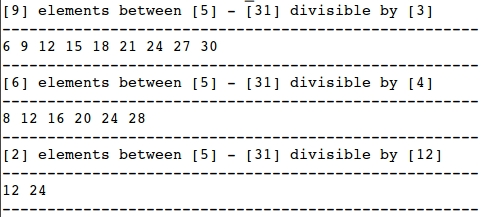
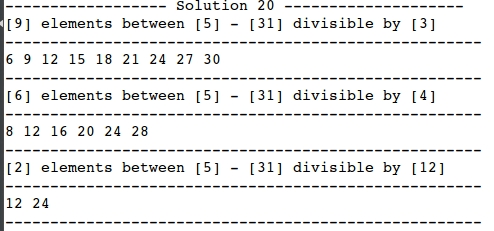
adding solution 21

Changed region(s): [[0.0, 0.0, 0.9856, 1.0]]

diff --git a/Chapter_6_Counting/6.1_The_Basics_of_Counting/Exercises/repo/range.cpp b/Chapter_6_Counting/6.1_The_Basics_of_Counting/Exercises/repo/range.cpp
@@ -37,6 +37,7 @@ int lcm(int a, int b) {
 }
 
 void solution_20() {
+    printf("------------------ Solution 20 --------------------\n");
     // Test case for problem a)
     int s = 5;
     int e = 31;
@@ -59,8 +60,33 @@ void solution_20() {
     print(s, e, g);
 }
 
+void solution_21() {
+    printf("------------------ Solution 21 --------------------\n");
+    // Test case for problem a)
+    int s = 50;
+    int e = 100;
+    int g = 7;
+    printf("[%d] elements between [%d] - [%d] divisible by [%d]\n", range(s, e, g), s, e, g);
+    print(s, e, g);
+
+    // Test case for problem b)
+    s = 50;
+    e = 100;
+    g = 11;
+    printf("[%d] elements between [%d] - [%d] divisible by [%d]\n", range(s, e, g), s, e, g);
+    print(s, e, g);
+
+    // Test case for problem c)
+    s = 50;
+    e = 100;
+    g = lcm(11, 7);
+    printf("[%d] elements between [%d] - [%d] divisible by [%d]\n", range(s, e, g), s, e, g);
+    print(s, e, g);
+}
+
 int main() {
     solution_20();
+    solution_21();
 
     return 0;
 }

diff --git a/Chapter_6_Counting/6.1_The_Basics_of_Counting/Exercises/Solution.md b/Chapter_6_Counting/6.1_The_Basics_of_Counting/Exercises/Solution.md
@@ -103,5 +103,13 @@ d) 2 ^ 6 = 64
 ![problem 20](https://github.com/cpp-rakesh/DiscreteMathematicsAndItsApplications/blob/master/Chapter_6_Counting/6.1_The_Basics_of_Counting/Exercises/repo/problem_20.jpg)
 #### Solution
 [range.cpp](https://github.com/cpp-rakesh/DiscreteMathematicsAndItsApplications/blob/master/Chapter_6_Counting/6.1_The_Basics_of_Counting/Exercises/repo/range.cpp)
+
 ![solution 20](https://github.com/cpp-rakesh/DiscreteMathematicsAndItsApplications/blob/master/Chapter_6_Counting/6.1_The_Basics_of_Counting/Exercises/repo/solution_20.jpg)
+
+
+![problem 21](https://github.com/cpp-rakesh/DiscreteMathematicsAndItsApplications/blob/master/Chapter_6_Counting/6.1_The_Basics_of_Counting/Exercises/repo/problem_21.jpg)
+#### Solution
+[range.cpp](https://github.com/cpp-rakesh/DiscreteMathematicsAndItsApplications/blob/master/Chapter_6_Counting/6.1_The_Basics_of_Counting/Exercises/repo/range.cpp)
+
+![solution 21](https://github.com/cpp-rakesh/DiscreteMathematicsAndItsApplications/blob/master/Chapter_6_Counting/6.1_The_Basics_of_Counting/Exercises/repo/solution_21.jpg)
 
